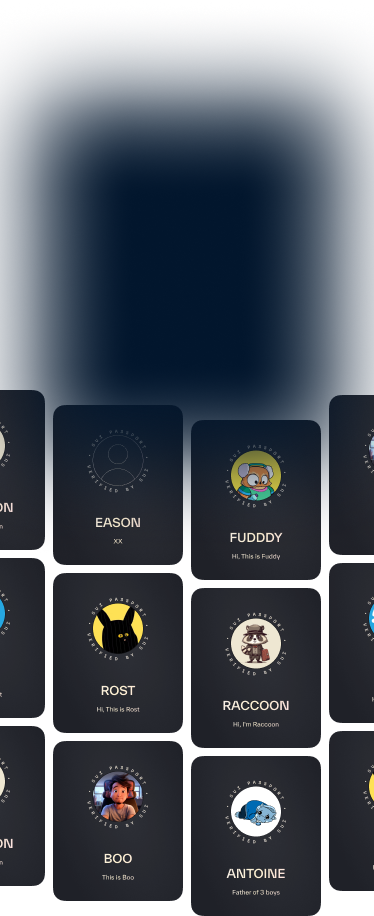
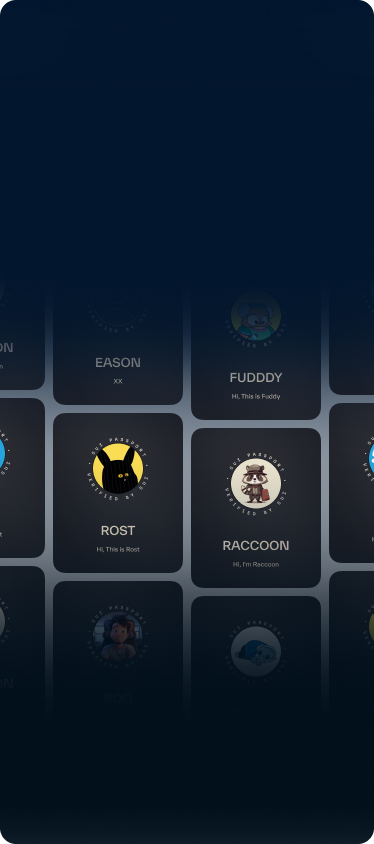
shrink card background + add stickers to main page

diff --git a/src/app/page.tsx b/src/app/page.tsx
@@ -24,9 +24,9 @@ export default function HomePage() {
           </div>
           <ProfileModal />
         </div>
-        <div className="relative mt-6 flex min-h-[1045px] sm:min-h-[1458px] w-full flex-col items-center rounded-t-xl bg-[#001731] pl-2 pr-2">
+        <div className="relative mt-6 flex min-h-[745px] w-full flex-col items-center rounded-t-xl bg-[#02101C] pl-2 pr-2 sm:min-h-[902px]">
           <Image
-            className="absolute rounded-xl hidden sm:block top-0"
+            className="absolute top-0 hidden rounded-xl sm:block"
             src={"/images/card-background.png"}
             alt="background"
             width={1424}
@@ -34,7 +34,7 @@ export default function HomePage() {
             unoptimized
           />
           <Image
-            className="absolute top-[125px] sm:hidden block rounded-xl sm:top-0"
+            className="absolute top-0 block rounded-xl sm:top-[-234px] sm:hidden"
             src={"/images/mobile-card-background.png"}
             alt="background"
             width={374}
@@ -60,37 +60,65 @@ export default function HomePage() {
           </div>
           <PassportCreationModal />
         </div>
-        <div className="relative flex w-full flex-col items-center bg-[#001731] pl-2 pr-2">
-          <h1 className="mt-40 sm:mt-16 max-w-[358px] sm:max-w-[696px] text-center font-everett text-[40px] sm:text-[68px] leading-[48px] sm:leading-[80px]">
+        <div className="relative mt-[-32px] flex w-full flex-col items-center bg-gradient-to-t from-[#02101C] from-95% pl-2 pr-2">
+          <h1 className="mt-40 max-w-[358px] text-center font-everett text-[40px] leading-[48px] sm:mt-16 sm:max-w-[696px] sm:text-[68px] sm:leading-[80px]">
             Get your stamps
           </h1>
-          <div className="mt-6 flex max-w-[358px] sm:max-w-[580px] flex-col text-center font-everett_light text-[14px] sm:text-[16px] text-[#ABBDCC]">
+          <div className="mt-6 flex max-w-[358px] flex-col text-center font-everett_light text-[14px] text-[#ABBDCC] sm:max-w-[580px] sm:text-[16px]">
             <p>
               Here are the latest stamps awarded to the Sui community,
               celebrating achievements and contributions
             </p>
           </div>
-          <div className="mt-[37px] flex flex-col-reverse sm:flex-row sm:min-w-[900px] justify-between">
+          <div className="mt-[37px] flex flex-col-reverse justify-between sm:min-w-[900px] sm:flex-row">
+            <div className="flex flex-col">
+              <Sticker
+                url={"/images/walrus.png"}
+                name="Month of Walrus"
+                rotation={-5}
+                amountLeft={95}
+                dropsAmount={500}
+                className="hidden sm:block"
+              />
+              <Sticker
+                url={"/images/passport-pioneer.png"}
+                name="Passport Pioneer"
+                rotation={-5}
+                amountLeft={45}
+                dropsAmount={100}
+                isClaimed
+              />
+            </div>
             <Sticker
               url={"/images/cabo.png"}
               name="CABO"
               rotation={-5}
               amountLeft={95}
               dropsAmount={500}
+              className="hidden sm:block"
             />
-            <Sticker
-              url={"/images/passport-pioneer.png"}
-              name="Passport Pioneer"
-              rotation={5}
-              amountLeft={45}
-              dropsAmount={100}
-              isClaimed
-            />
+            <div className="flex flex-col">
+              <Sticker
+                url={"/images/passport-pioneer.png"}
+                name="Passport Pioneer"
+                rotation={5}
+                amountLeft={45}
+                dropsAmount={100}
+                className="hidden sm:block"
+              />
+              <Sticker
+                url={"/images/walrus.png"}
+                name="Month of Walrus"
+                rotation={5}
+                amountLeft={95}
+                dropsAmount={500}
+              />
+            </div>
           </div>
-          <h2 className="mt-[185px] max-w-[263px] text-center font-everett text-[24px] sm:text-[32px] leading-[28px] sm:leading-[38px]">
+          <h2 className="mt-[185px] max-w-[263px] text-center font-everett text-[24px] leading-[28px] sm:text-[32px] sm:leading-[38px]">
             Top Contributors
           </h2>
-          <div className="mb-[48px] sm:mb-[80px] mt-6">
+          <div className="mb-[48px] mt-6 sm:mb-[80px]">
             <ContributorsTable data={contributors} />
           </div>
         </div>

diff --git a/src/components/Sticker/Sticker.tsx b/src/components/Sticker/Sticker.tsx
@@ -21,6 +21,7 @@ type StickerProps = {
   amountLeft: number;
   dropsAmount: number;
   isClaimed?: boolean;
+  className?: string;
 };
 
 export const Sticker: FC<StickerProps> = (props) => {
@@ -31,6 +32,7 @@ export const Sticker: FC<StickerProps> = (props) => {
     rotation = 0,
     dropsAmount = 0,
     isClaimed,
+    className,
   } = props;
 
   const [status, setStatus] = useState<"pending" | "default" | "success">(
@@ -40,7 +42,7 @@ export const Sticker: FC<StickerProps> = (props) => {
 
   return (
     <Dialog>
-      <DialogTrigger disabled={isClaimed}>
+      <DialogTrigger className={className} disabled={isClaimed}>
         <div
           className={cn("relative flex flex-col items-center justify-center")}
           style={{
